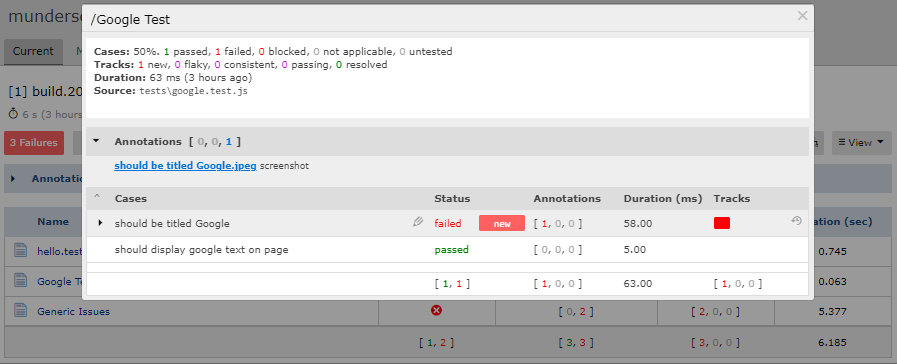
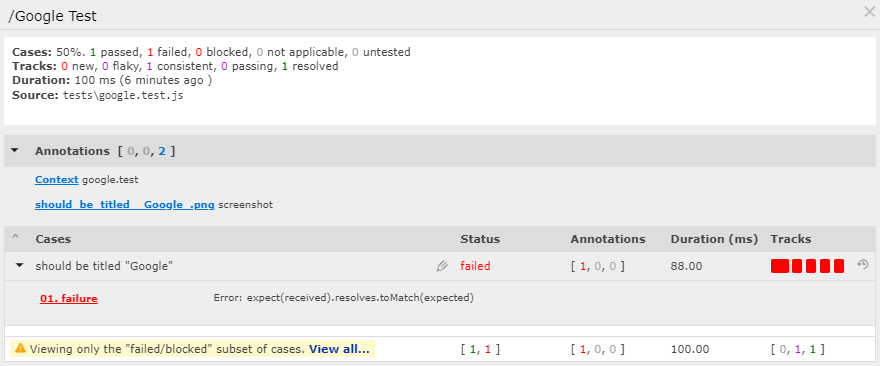
doc updates

diff --git a/tests/google.test.js b/tests/google.test.js
@@ -1,35 +1,33 @@
 
 beforeAll(() => {
-
   console.log("TEST FILE SETUP ...");
-
 });
 
 afterAll(() => {
   console.log("TEST FILE TEARDOWN ...");
 });
 
-
 describe('Google Test', () => {
-
     beforeAll(async () => {
-      await page.goto('https://google.com');
+        await page.goto('https://google.com');
     });
 
-    it('should be titled Google', async () => {
+    /*
+     * Not using console annotation approach
+     */
+    afterEach(async () => {
+      if (testScreenshot) {
+        //console.log("[[ATTACHMENT|./"+testScreenshot+"|screenshot]]");
+        console.log("((ATTACHMENT|./"+testScreenshot+"|screenshot))")
+      }
+    });
+
+    it('should be titled "Google"', async () => {
       await expect(page.title()).resolves.toMatch('xGoogle');
     });
-
     it('should display google text on page', async () => {
         const text = await page.evaluate(() => document.body.textContent)
         expect(text).toContain('google')
-    })
-
-    afterEach(async () => {
-      console.log({testStatus:testStatus, testName:testName, describeName:describeName});
-      //const url = await page.url();
-      //console.log(url);
-    })
-
+    });
 });
 

diff --git a/jest.config.js b/jest.config.js
@@ -10,5 +10,8 @@ module.exports = {
     // Test timeout: 60000*1 = 1min
     testTimeout: 60000,
     "testEnvironment": "./jest-custom-environment.js",
-    "globalSetup":     "./jest-custom-global-setup.js"
+    "globalSetup":     "./jest-custom-global-setup.js",
+    "globals": {
+        "testScreenshot": null
+    }
 };

diff --git a/README.md b/README.md
@@ -19,6 +19,12 @@ When publishing the following command line is used:
 testspace junit.xml @./screenshots-list.txt
 ```
 
+When publishing contest to a folder the following syntax is required:
+```
+testspace junit.xml @./screenshots-list.txt '#/FOLDER`
+```
+
+
 Note, publishing always include the context list, even when empty.
 
 ## Example
@@ -27,7 +33,7 @@ The following is an example of the **test results** published to [Testspace](htt
 
 ![Results Publish](readme-results.png "Results Published")
 
-When selecting the `Google Test` suite refer to the **Annotations** listing `should be tilted Google.jpeg` :
+When selecting the `Google Test` suite refer to the **Annotations** listing `should_be_tilted__ Google_.png` :
 
 <br>
 
@@ -49,14 +55,12 @@ https://github.com/smooth-code/jest-puppeteer#extend-puppeteerenvironment) is re
 
 Refer to `jest-custom-environment.js` for specifics. Refer to `jest-custom-global-setup.js` and the global setup requirements.
 
+Note. To force the *Visual Test* suite to fail, go to [testspace-com:demo](https://s2.testspace.com/spaces/145811/specs) and create a new session.
 
 ### Constraints
 
 - Requires defining **testDir** within `jest-custom-environment.js` (defaults to `./tests`)
-- Subfolders are **not** supported
 - Nested `describes` **not** supported
-- Quotes (") with test names **not** supported
-
 
 The following hardcoded settings:
 - the auto-generated `screenshots` folder that contains images
@@ -126,7 +130,8 @@ Jest junit output - https://help.testspace.com/publish/tools-support-javascript#
 "jest-junit": {
     "suiteNameTemplate": "{filepath}",
     "classNameTemplate": "{classname}",
-    "titleTemplate": "{title}"
+    "titleTemplate": "{title}",
+    "includeShortConsoleOutput": "true"
 },
 ```
 
